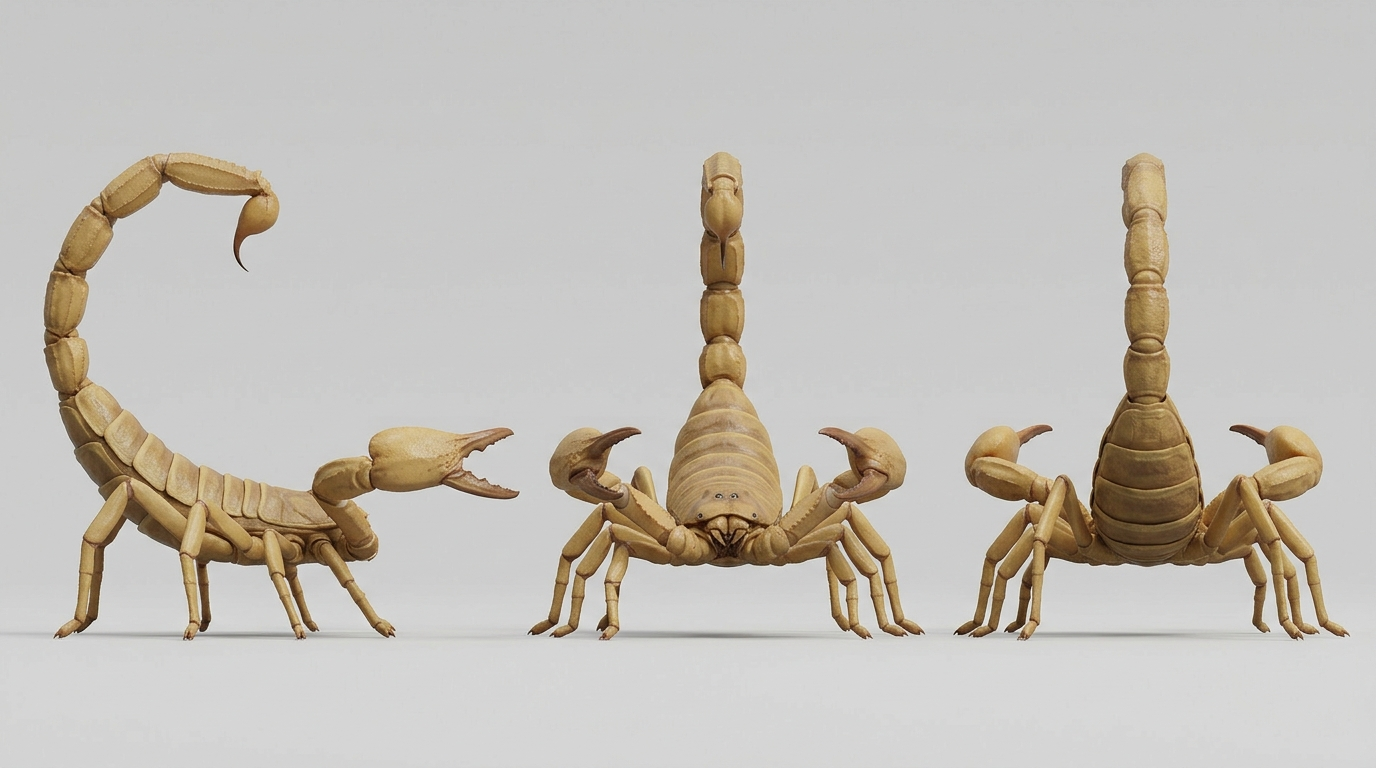
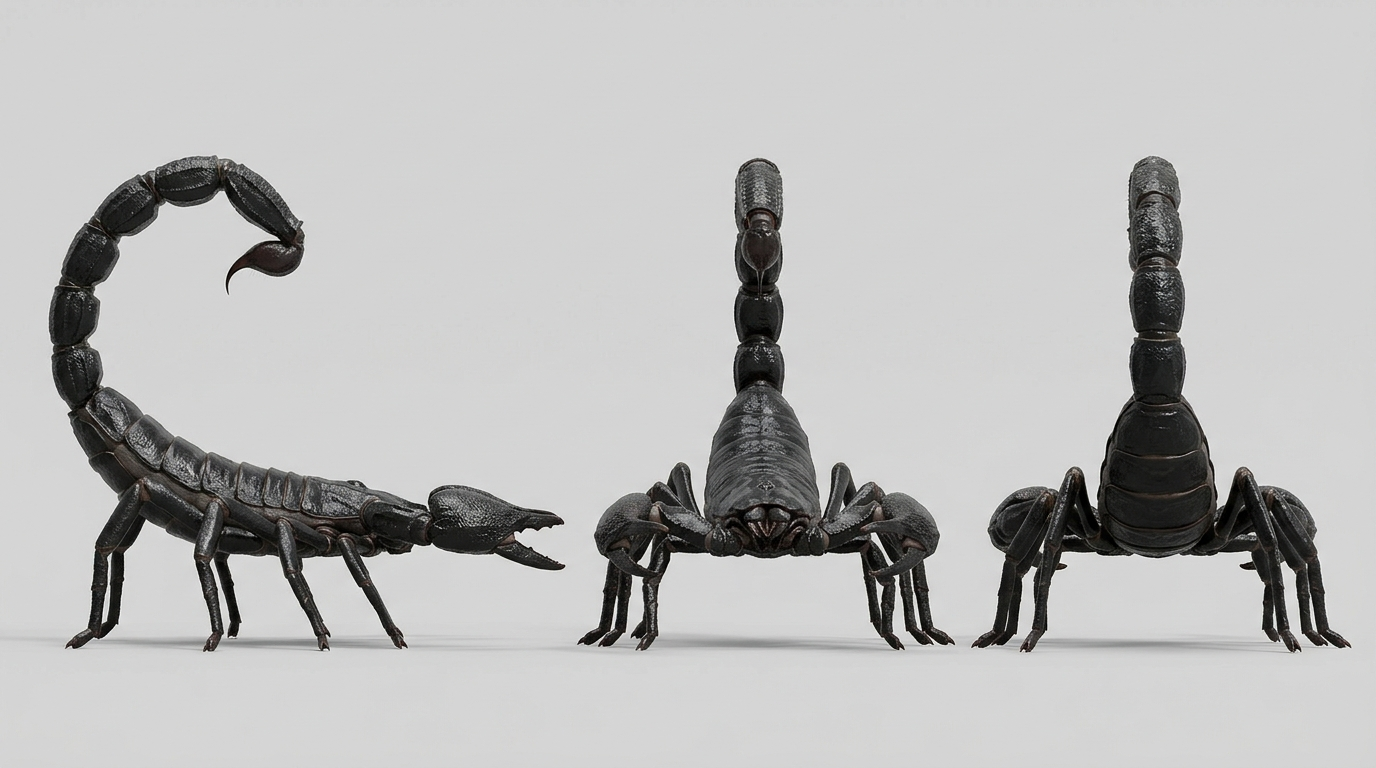
Use the black fat-tailed scorpion for the first two Serket tiers
The first and second tiers of the Serket Scorpion are now the black
fat-tailed scorpion chosen from the comparison samples: glossy black
with a thick heavy tail, and at the second tier a gold band on the tail
and red carnelian beads across the back. The third tier keeps its sheet
until one is chosen from the armoured samples; the armoured war beast
sample it will be based on is kept in refs/scorpion/sources.

Claude-Session: https://claude.ai/code/session_014VBYXxiG2Wapix7xffbVix

Changed region(s): [[0.0312, 0.1875, 1.0, 0.875]]

diff --git a/tools/refs/roster.py b/tools/refs/roster.py
@@ -169,12 +169,15 @@ ROSTER = [
         'a broad leaf-shaped bronze blade, a gilded socket and a bronze butt-spike, and on his left arm a new shield: '
         'a tall cowhide shield about 1.1 m with a rounded top, dappled black and white hide edged with a gilded bronze '
         'rim, and a gilded bronze boss in the shape of a sun disc. No sword in the hands.')),
+    # The scorpion's first two tiers were chosen from separate samples (the black fat-tailed direction), so
+    # each describes the whole creature.
     dict(id='scorpion-1', faction='egypt', kind='beast', name='Serket Scorpion', subject=(
-        'A giant desert scorpion sacred to Serket, about 2.5 m long with the tail: sand-yellow chitin like a deathstalker, '
-        'pincers held forward, the segmented tail arched over the back with the sting.')),
-    dict(id='scorpion-2', faction='egypt', kind='beast', name='Veteran Serket Scorpion', subject=(
-        'A larger temple scorpion: dark amber-brown chitin, a band of hammered gold round one tail segment and faience '
-        'beads strung across its back.')),
+        'A giant black fat-tailed scorpion of the Egyptian desert, sacred to Serket, about 2.5 m long with the tail: '
+        'glossy black chitin like Androctonus, a thick heavy tail of swollen segments arched over the back with the '
+        'sting, smaller pincers held forward.')),
+    dict(id='scorpion-2', faction='egypt', kind='beast', name='Veteran Serket Scorpion', tier1=False, subject=(
+        'A larger black fat-tailed temple scorpion of Serket: glossy black chitin, a thick heavy arched tail, a band '
+        'of hammered gold round one tail segment and red carnelian beads strung across its back.')),
     dict(id='scorpion-3', faction='egypt', kind='beast', name='Elite Serket Scorpion', subject=(
         'The largest temple scorpion: black-brown chitin with a bronze sheen, the tail and pincers banded with gold and '
         'inlaid lapis lazuli plaques bearing the scorpion emblem of Serket.')),
